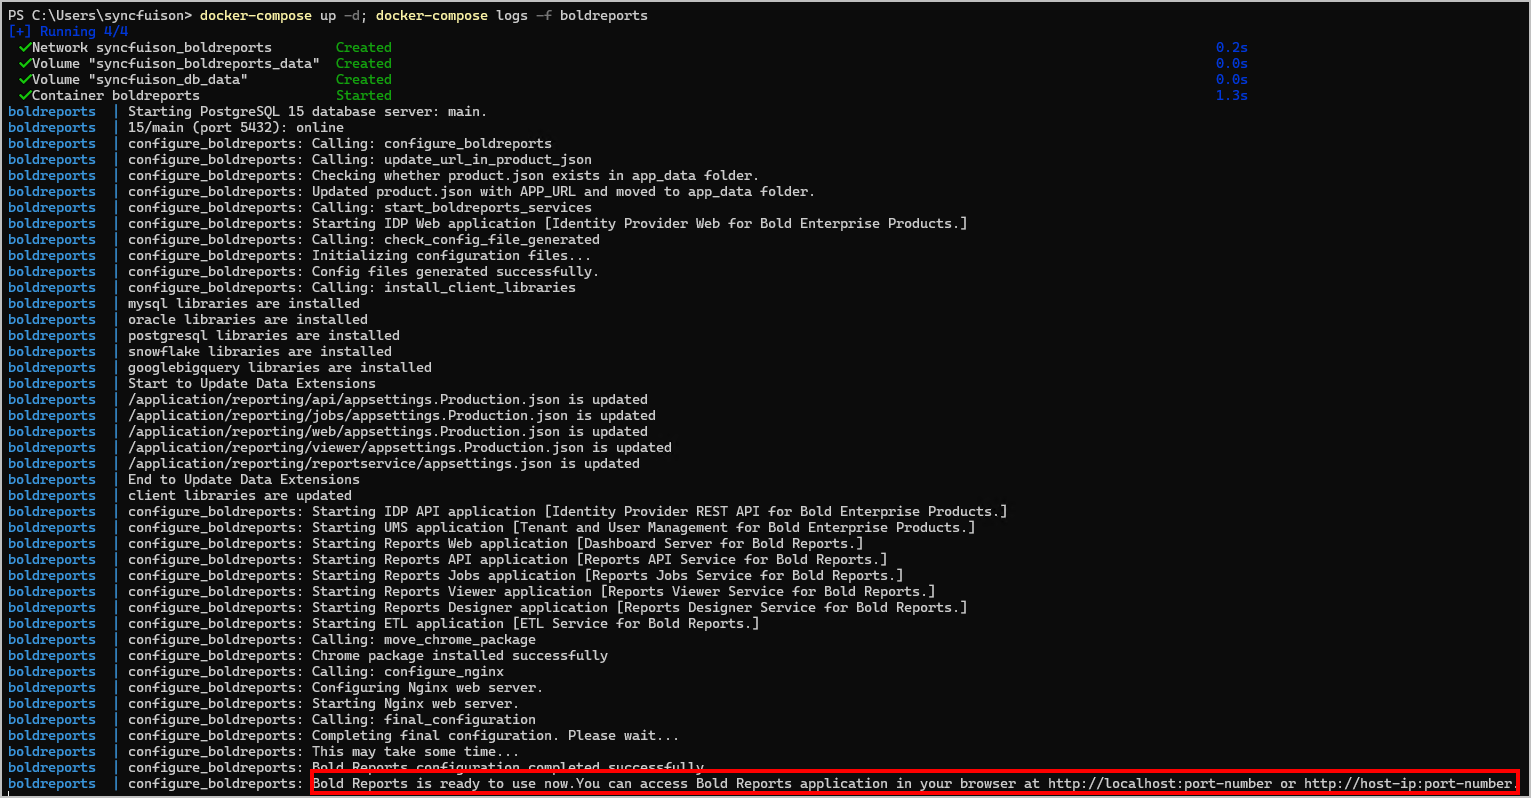
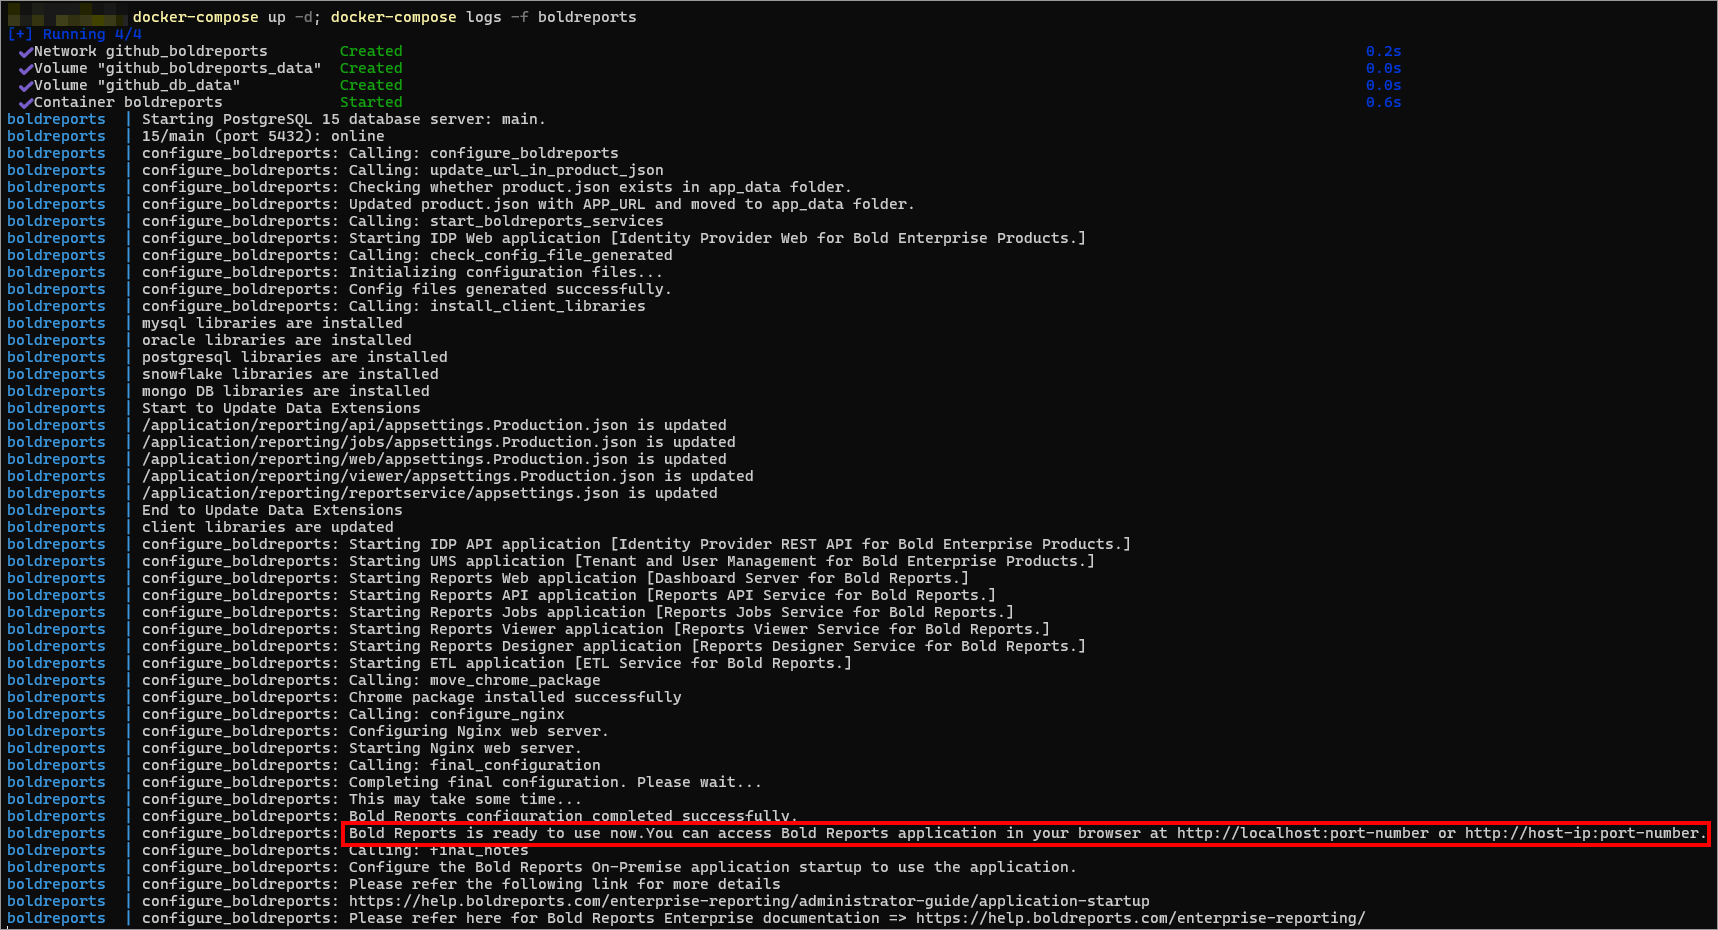
Docker documentation changes for v9.1.7 license changes

Changed region(s): [[0.0, 0.0, 1.0, 1.0], [0.7982, 0.0301, 0.8289, 0.1203], [0.9824, 0.0, 1.0, 0.0301]]

diff --git a/README.md b/README.md
@@ -45,20 +45,28 @@ The following software requirements are necessary to run the Bold Reports Enterp
 
 # Deploying Bold Reports Evaluation Image Using Docker Compose
 
-The eval tag (8.1.1-eval) is specifically designed to streamline the Bold Reports evaluation process by integrating a PostgreSQL server within the Bold Reports container. Please note that this image tag is intended for evaluation purposes only and should not be used in production environments. In this guide, we will demonstrate how to deploy the Bold Reports evaluation image using Docker Compose, with volume mounts configured for data persistence.
+The eval tag (9.1.7-eval) is specifically designed to streamline the Bold Reports evaluation process by integrating a PostgreSQL server within the Bold Reports container. Please note that this image tag is intended for evaluation purposes only and should not be used in production environments. In this guide, we will demonstrate how to deploy the Bold Reports evaluation image using Docker Compose, with volume mounts configured for data persistence.
 
-  1. Log in to the Bold Reports [account](https://www.boldreports.com/account) page and download the Docker Compose file.
-     ![docker-compose-file](docs/images/docker-compose-file.png)
+  1. Download the Docker Compose file by using the following command.   
+      ```sh
+      curl -o docker-compose.yml "https://github.com/boldreports/bold-reports-docker/blob/master/deploy/single-container-eval-no-license/docker-compose.yml"
+      ```
   
-  2. Navigate to the docker-compose file location and run the command below. This command will start the Bold Reports application container and display the Bold Reports container logs, providing information about the installation status of the Bold Reports application.
+  2. Run the command below. This command will start the Bold BI application container and display the Bold BI container logs, providing information about the installation status of the Bold BI application.
      ```sh
      docker-compose up -d; docker-compose logs -f boldreports
      ```
      ![docker-compose-up](docs/images/docker-compose-up.png)
 
-  3. Now, access the Bold Reports application by entering the URL as `http://localhost:8090` or `http://host-ip:8090` in the browser. When opening this URL in the browser, it will configure the application startup in the background and display the page below within a few seconds. The default port number mentioned in the compose file is 8090. If you are making changes to the port number, then you need to use that port number for accessing the Bold Reports application.
+   3. Now, access the Bold BI application by entering the URL as http://localhost:8090 or http://host-ip:8090 in the browser. When you open this URL, the application will configure its startup in the background and display the license activation page below within a few seconds. You can either activate your license using the available option or try the trial version by selecting the Proceed with 30 Days Trial option.
 
-     ![docker-startup](docs/images/docker-startup.png)
+      > Note: The default port number mentioned in the compose file is 8085. If you are making changes to the port number, then you need to use that port number for accessing the Bold BI application.
+
+      ![registration-page](docs/images/registration-page.png)
+
+      After selecting the license option, the application will redirect you to the dashboard listing page.
+
+      ![Dashboard page](docs/images/dashboard-page.png)
 
       > **Note:** </br> 1. The deployment steps above are recommended for evaluation purposes only. For a production use case, you will need to mount the volume to the host path location or online storage and utilize managed DB servers. </br>2. Don't use localhost IP (`http://127.0.0.1`) with `port` to access the application.
 # How to Deploy Bold Reports using Advanced Configuration?
